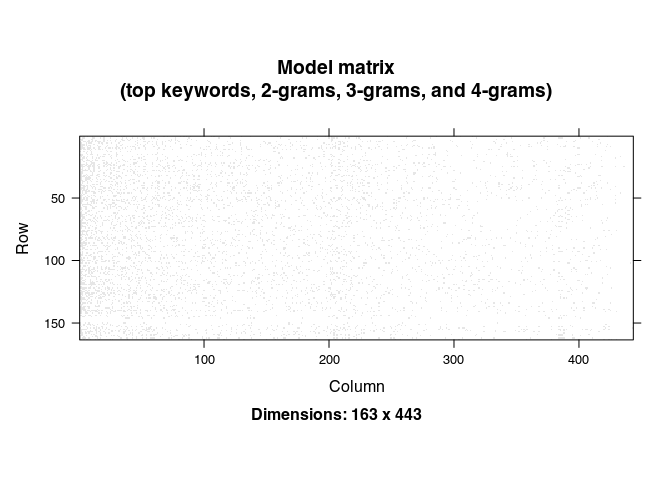
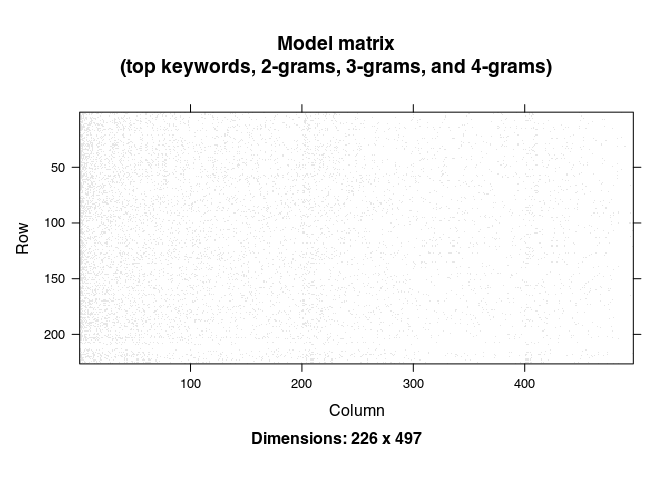
Updating model

diff --git a/model/model0.md b/model/model0.md
@@ -31,11 +31,8 @@ library(AUC)
 ``` r
 keywords <- readLines("../data-raw/keywords.txt")
 
-data_yes <- readxl::read_xlsx("../data-raw/Eligible for Full Text Review_10-26-22.xlsx") |>
-  as.data.table()
-
-data_no  <- readxl::read_xlsx("../data-raw/Ineligible Abstracts_10-26-22.xlsx") |>
-  as.data.table()
+data_yes <- fread("../data-raw/elegible.csv") 
+data_no  <- fread("../data-raw/inelegible.csv") 
 
 data_all <- rbind(data_yes, data_no, fill = TRUE)
 n <- nrow(data_all)
@@ -46,23 +43,32 @@ n <- nrow(data_all)
 ``` r
 # Generating abstract clean
 data_all[, abstract := Abstract]
-words <- stringr::str_extract_all(data_all$abstract, "[[:upper:]]{3,}", simplify = FALSE)
 data_all[, abstract := tolower(abstract)]
 
+extract_ngrams <- function(dat, name. = "ngrams") {
+  
+  ngrams_1 <- str_split(tolower(dat), "\\s+|\\n")
 
-ngrams_1 <- str_split(data_all$abstract, "\\s+|\\n")
+  ngrams_2 <- lapply(ngrams_1, ngrams, n = 2) |>
+    lapply(\(d) sapply(d, paste, collapse = " ", simplify = FALSE)) |>
+    lapply(\(d) unique(unlist(d)))
+  
+  ngrams_4 <- lapply(ngrams_1, ngrams, n = 4) |>
+    lapply(\(d) sapply(d, paste, collapse = " ", simplify = FALSE)) |>
+    lapply(\(d) unique(unlist(d)))
+  
+  ngrams_3 <- lapply(ngrams_1, ngrams, n = 3) |>
+    lapply(\(d) sapply(d, paste, collapse = " ", simplify = FALSE))  |>
+    lapply(\(d) unique(unlist(d)))
+  
+  assign(x = paste0(name., "_1"), value = ngrams_1, envir = .GlobalEnv)
+  assign(x = paste0(name., "_2"), value = ngrams_2, envir = .GlobalEnv)
+  assign(x = paste0(name., "_3"), value = ngrams_3, envir = .GlobalEnv)
+  assign(x = paste0(name., "_4"), value = ngrams_4, envir = .GlobalEnv)
+  
+}
 
-ngrams_2 <- lapply(ngrams_1, ngrams, n = 2) |>
-  lapply(\(d) sapply(d, paste, collapse = " ", simplify = FALSE)) |>
-  lapply(\(d) unique(unlist(d)))
-
-ngrams_4 <- lapply(ngrams_1, ngrams, n = 4) |>
-  lapply(\(d) sapply(d, paste, collapse = " ", simplify = FALSE)) |>
-  lapply(\(d) unique(unlist(d)))
-
-ngrams_3 <- lapply(ngrams_1, ngrams, n = 3) |>
-  lapply(\(d) sapply(d, paste, collapse = " ", simplify = FALSE))  |>
-  lapply(\(d) unique(unlist(d)))
+extract_ngrams(data_all$Abstract)
 
 # Ranking the ngrams_3 and ngrams_4
 ngrams_top_2 <- table(unlist(ngrams_2, recursive = TRUE)) |> as.data.table()
@@ -73,18 +79,18 @@ stopw <- paste0("^(", paste(tm::stopwords(), collapse = "|"), "|\\s)+$")
 ngrams_top_2[grepl(stopw, V1) == FALSE]
 ```
 
-                             V1  N
-        1:         copyright â© 91
-        2:          of covid-19 65
-        3:         the covid-19 51
-        4:            number of 45
-        5:           this study 41
-       ---                        
-    25346:   zero exponentially  1
-    25347:              zero in  1
-    25348: zhang, dhanalakshmi,  1
-    25349:           zone, such  1
-    25350:         zubair shah.  1
+                             V1   N
+        1:          copyright © 132
+        2:          of covid-19  81
+        3:         the covid-19  73
+        4:            number of  58
+        5:           this study  55
+       ---                         
+    34912:              zero in   1
+    34913: zhang, dhanalakshmi,   1
+    34914:         zhang, elahe   1
+    34915:              zn, cd,   1
+    34916:           zone, such   1
 
 ``` r
 ngrams_top_3 <- table(unlist(ngrams_3, recursive = TRUE)) |> as.data.table()
@@ -106,47 +112,57 @@ k <- length(keyterms)
 # Generating the data matrix
 
 ``` r
-data_mat <- matrix(
-  0L,
-  nrow = n, ncol = k, 
-  dimnames = list(1:n, keyterms)
-  )
-
-# One term
-idx_1 <- Map(\(a,b) {
-  a <- intersect(a, keyterms)
-  cbind(rep(b, length(a)), a)
-  }, a = ngrams_1, b = 1:n) |>
-  do.call(what = rbind)
-
-data_mat[idx_1] <- 1L
-
-# Two terms
-idx_1 <- Map(\(a,b) {
-  a <- intersect(a, keyterms)
-  cbind(rep(b, length(a)), a)
-  }, a = ngrams_2, b = 1:n) |>
-  do.call(what = rbind)
-
-data_mat[idx_1] <- 1L
-
-# Three terms
-idx_1 <- Map(\(a,b) {
-  a <- intersect(a, keyterms)
-  cbind(rep(b, length(a)), a)
-  }, a = ngrams_3, b = 1:n) |>
-  do.call(what = rbind)
-
-data_mat[idx_1] <- 1L
-
-# Four terms
-idx_1 <- Map(\(a,b) {
-  a <- intersect(a, keyterms)
-  cbind(rep(b, length(a)), a)
-  }, a = ngrams_4, b = 1:n) |>
-  do.call(what = rbind)
-
-data_mat[idx_1] <- 1L
+build_mat <- function(ng1, ng2, ng3, ng4, keyterms.) {
+  
+  n. <- length(ng1)
+  k. <- length(keyterms.)
+  
+  data_mat <- matrix(
+    0L,
+    nrow = n., ncol = k., 
+    dimnames = list(1:n., keyterms.)
+    )
+  
+  # One term
+  idx_1 <- Map(\(a,b) {
+    a <- intersect(a, keyterms.)
+    cbind(rep(b, length(a)), a)
+    }, a = ng1, b = 1:n.) |>
+    do.call(what = rbind)
+  
+  data_mat[idx_1] <- 1L
+  
+  # Two terms
+  idx_1 <- Map(\(a,b) {
+    a <- intersect(a, keyterms.)
+    cbind(rep(b, length(a)), a)
+    }, a = ng2, b = 1:n.) |>
+    do.call(what = rbind)
+  
+  data_mat[idx_1] <- 1L
+  
+  # Three terms
+  idx_1 <- Map(\(a,b) {
+    a <- intersect(a, keyterms.)
+    cbind(rep(b, length(a)), a)
+    }, a = ng3, b = 1:n.) |>
+    do.call(what = rbind)
+  
+  data_mat[idx_1] <- 1L
+  
+  # Four terms
+  idx_1 <- Map(\(a,b) {
+    a <- intersect(a, keyterms.)
+    cbind(rep(b, length(a)), a)
+    }, a = ng4, b = 1:n.) |>
+    do.call(what = rbind)
+  
+  data_mat[idx_1] <- 1L
+  
+  data_mat
+  
+}
+data_mat <- build_mat(ngrams_1, ngrams_2, ngrams_3, ngrams_4, keyterms. = keyterms)
 ```
 
 ``` r
@@ -265,8 +281,8 @@ model$save("modelo-00-keras")
 evaluate(model, x_test, y_test)
 ```
 
-        loss 
-    0.274997 
+         loss 
+    0.1863797 
 
 ``` r
 p <- predict(model, x = x_test)
@@ -278,3 +294,26 @@ plot(aucs, main = sprintf("AUC-ROC %.2f", auc(aucs)))
 ```
 
 ![](model0_files/figure-gfm/Evaluation-1.png)
+
+# Predicting for the larger dataset
+
+``` r
+dat_to_score <- fread("../data-raw/not-screened.csv")
+extract_ngrams(dat_to_score$Abstract, name. = "ngrams_2")
+data_mat <- build_mat(ngrams_2_1, ngrams_2_2, ngrams_2_3, ngrams_2_4, keyterms. = keyterms)
+
+x_new <- data_mat |>
+  as.vector() |>
+  array_reshape(c(nrow(data_mat), k), order = "F")
+
+p2 <- predict(model, x = x_new)
+
+res <- data.table(
+  score_txt = fifelse(p2 > .90, "Yes", fifelse(p2 < .10, "No", "Not sure")),
+  score = as.vector(p2),
+  dat_to_score[, .(Title, Authors, `Accession Number`, `Published Year`, Journal)]
+  )
+res <- res[order(-abs(fifelse(score > .5, score, 1-score))),]
+
+fwrite(res, "model0-predictions.csv")
+```
